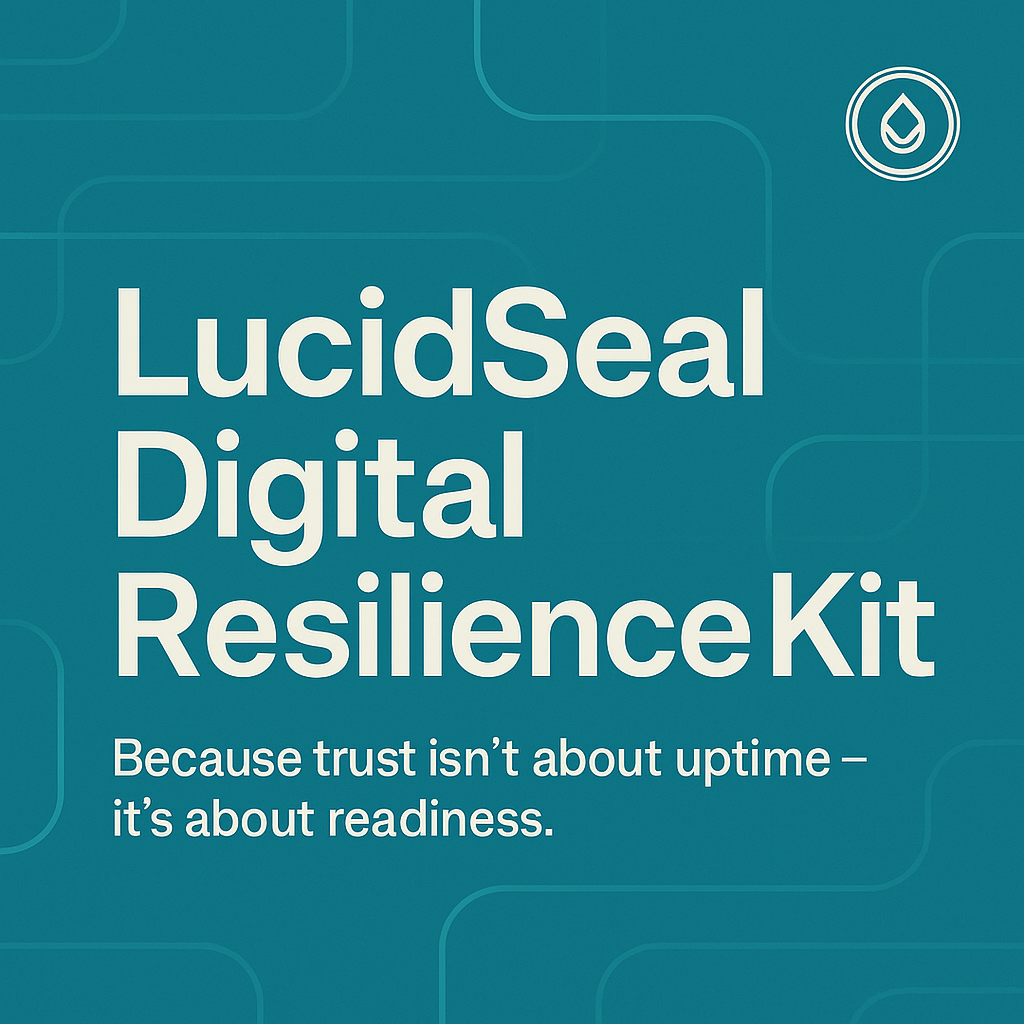
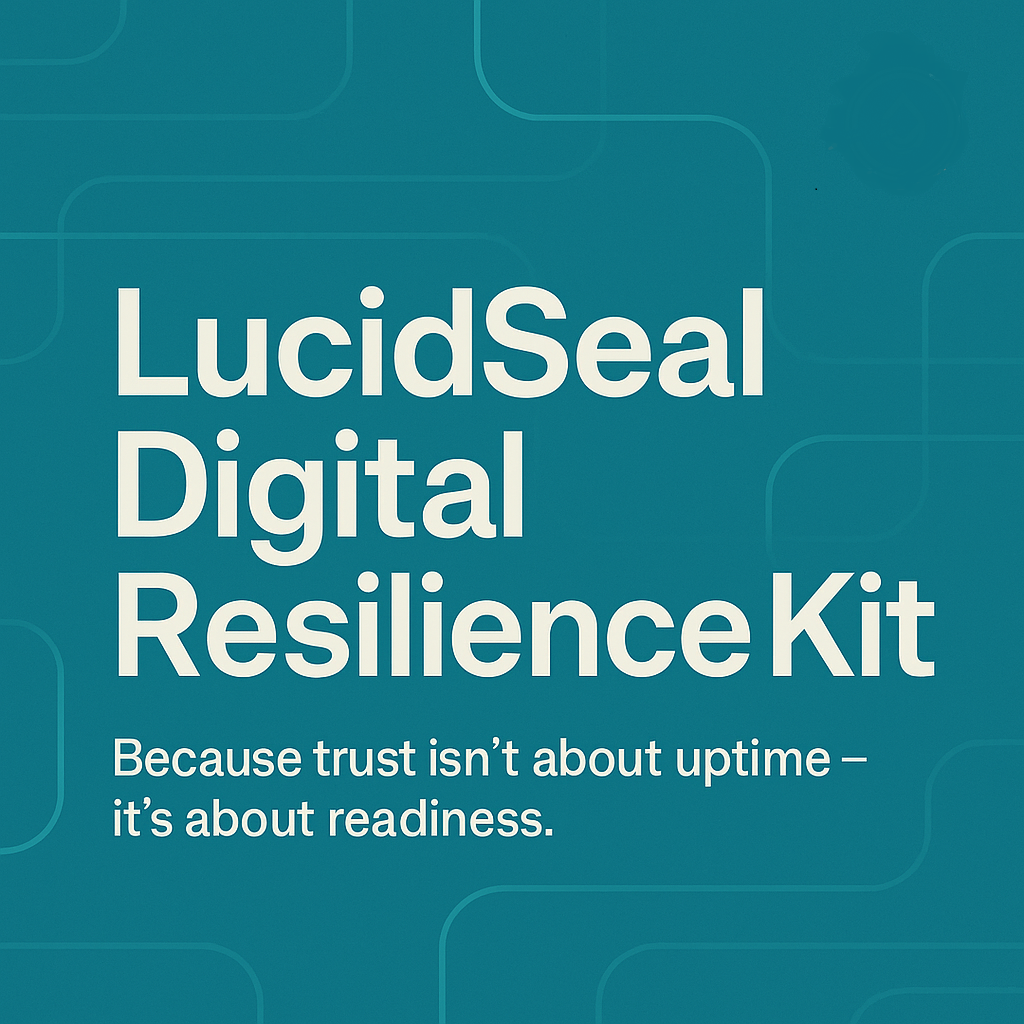
bugfix

Changed region(s): [[0.8125, 0.0625, 0.9375, 0.1875]]

diff --git a/index.html b/index.html
@@ -20,17 +20,22 @@
   <header class="appbar">
     <div class="wrap bar">
       <img class="logo" src="https://assets.lucidseal.org/brand/logo/logo.png" alt="LucidSeal logo">
-      <img class="badge" src="https://assets.lucidseal.org/brand/badge/marketing/badge_128h.png" alt="LucidSeal badge" width="40" height="40">
     </div>
   </header>
 
   <main class="wrap">
     <section class="hero fade-in">
-      <h1>When AWS Sneezes,<br>The Internet Catches a Cold.</h1>
-      <p>The recent DNS outage reminded us that resilience isn’t a luxury - it’s a mindset.</p>
-      <p class="lead"><strong>The LucidSeal Digital Resilience Kit</strong> helps small teams prepare before the next outage.</p>
+      <h2>When AWS Sneezes, The Internet Catches a Cold.</h2>
+      <p>Outages like this remind us how interconnected - and fragile - our digital world has become.</p>
+      <p>Most businesses rely on tools they don’t control, but trust is built on how we respond when things break.</p>
+      <p class="lead">The<strong> LucidSeal Digital Resilience Kit</strong> offers a calm, human approach to preparing for digital disruption<br>
+         — a small taste of the mindset we’re building at LucidSeal.</p>
       <p class="tagline">Because trust isn’t about uptime - it’s about readiness.</p>
     </section>
+
+    <div><img class="logo" src="https://assets.lucidseal.org/brand/logo/logo.png" alt="LucidSeal logo">
+    <h1>Digital Resillence Kit</h1>
+  </div>
 
     <!-- Accordion -->
     <section class="kit fade-in">
@@ -181,11 +186,10 @@
   </button>
 
   <footer>
-    <a class="icon-btn" href="https://www.linkedin.com/company/lucidseal" target="_blank" rel="noopener" aria-label="Linkedin"></a>
-    <i data-lucide="linkedin"></i>
+    <a class="icon-btn" href="https://www.linkedin.com/company/lucidseal" target="_blank" rel="noopener" aria-label="Linkedin">
+    <i data-lucide="linkedin"></i></a>
     <a class="icon-btn" href="https://github.com/lucidseal" target="_blank" rel="noopener" aria-label="GitHub">
-      <i data-lucide="github"></i>
-    </a>
+      <i data-lucide="github"></i></a>
     <p class="meta">LucidSeal is a practical framework and growing network helping organisations earn and show Digital Trust.</p>
     <p class="meta"><strong>© 2025 LucidSeal  | Where Digital Trust Begins</strong></p>
     <p class="meta">Content and templates are free to use with attribution; code is open-source where noted.</p>
